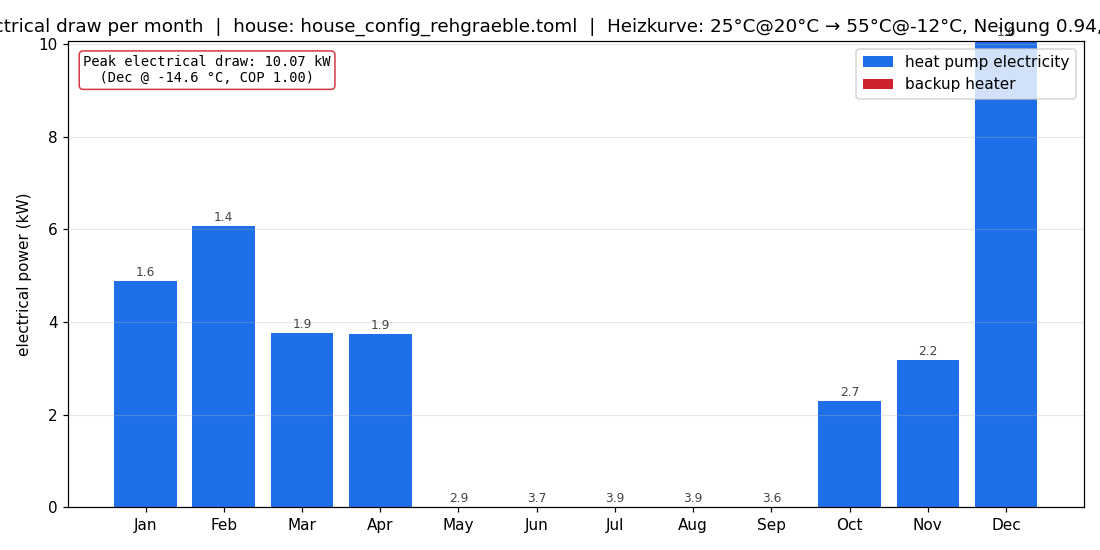
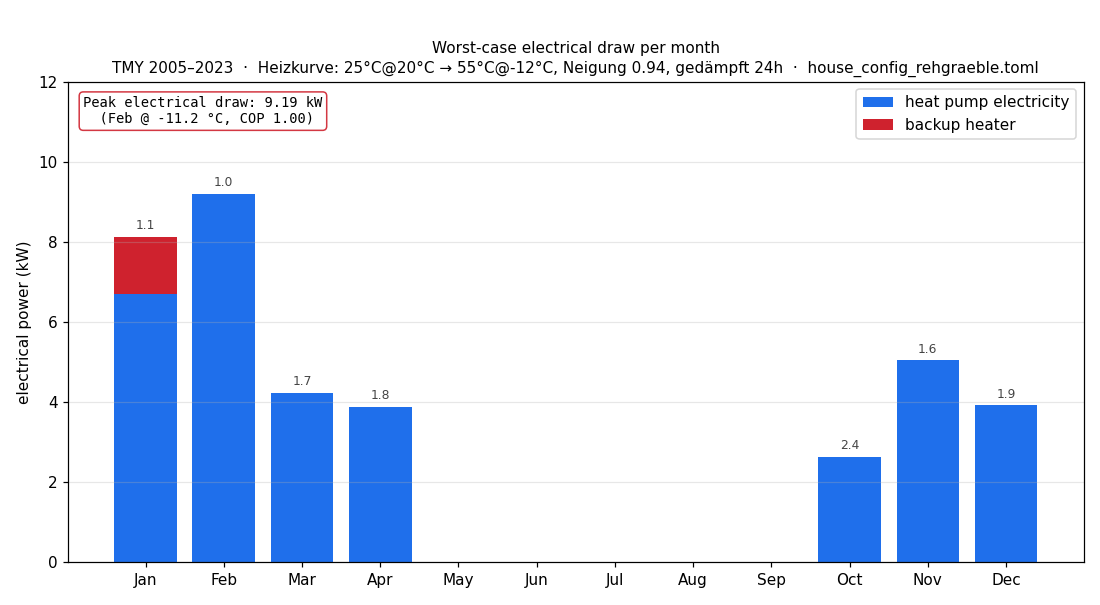
Deploy site (999da0d31ff6c4bc171d8f9004a61601bb3f9a28) 999da0d31ff6c4bc171d8f9004a61601bb3f9a28

diff --git a/index.html b/index.html
@@ -64,8 +64,8 @@
       "house_full_year.png": "House heat demand only — no heat pump COP or electricity.",
       "radiator_check.png": "Radiator output at design flow vs room design load. Underpowered rooms need higher flow or bigger radiators.",
       "radiator_room_energy.png": "Design-point heat loss split: transmission, infiltration, and window airing per room.",
-      "sim_worst_case.png": "Peak electrical draw in the coldest hour of each month (heat pump + backup heater).",
-      "house_worst_case.png": "Peak house thermal load in the coldest hour of each month.",
+      "sim_worst_case.png": "Peak electrical draw in the coldest hour of each month (PVGIS TMY 2005–2023; heat pump + backup heater).",
+      "house_worst_case.png": "Peak house thermal load in the coldest hour of each month (PVGIS TMY 2005–2023).",
     };
 
     let stats = null;